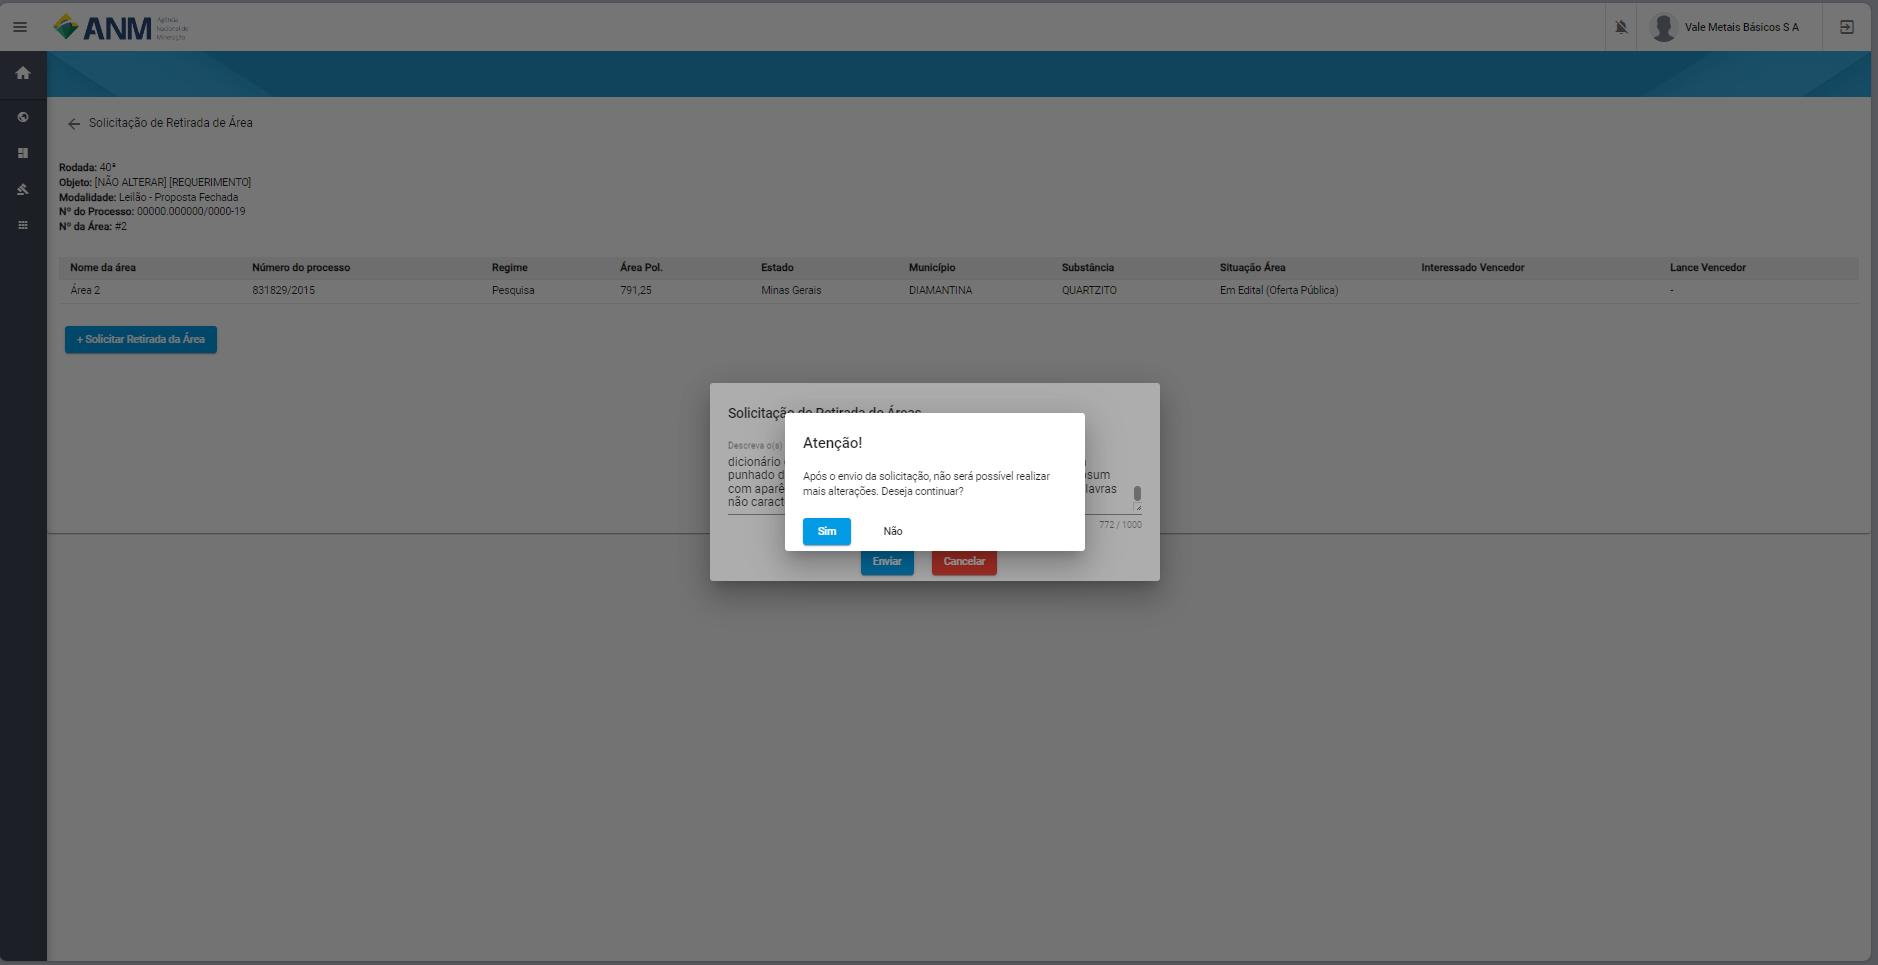
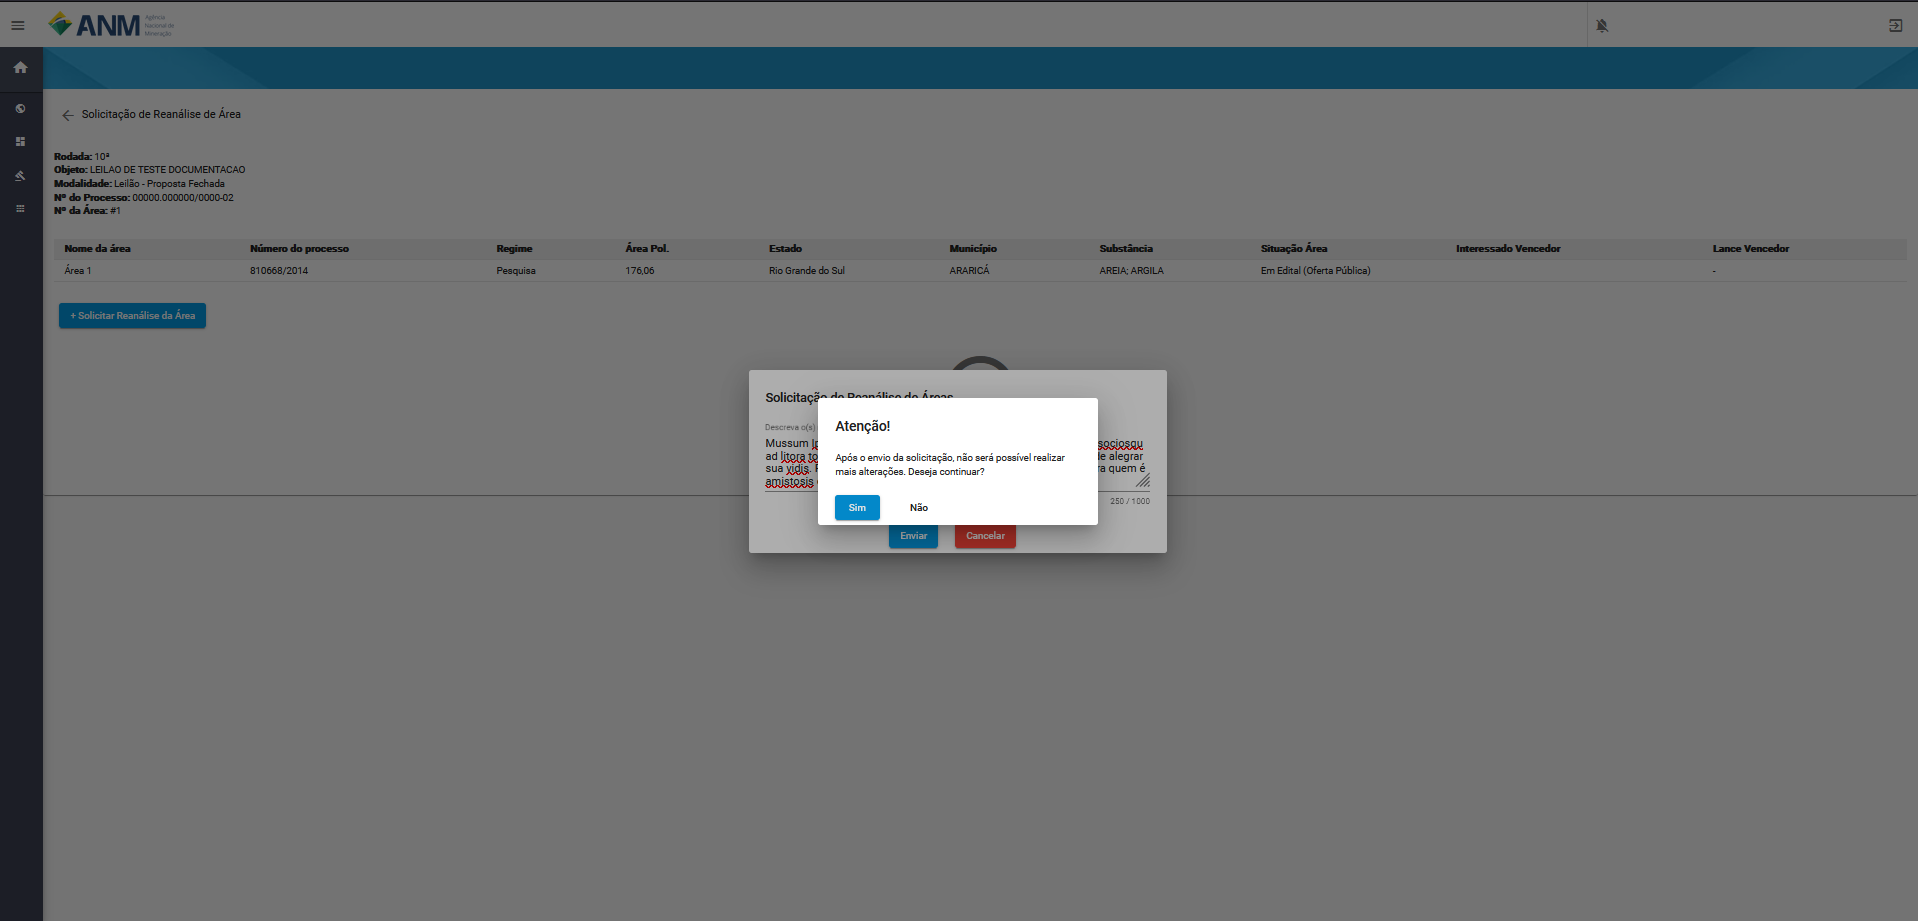
Ajustes solicitados por André Vilaca

diff --git a/conf.py b/conf.py
@@ -39,7 +39,8 @@ release = u'1.0.0'
 # extensions coming with Sphinx (named 'sphinx.ext.*') or your custom
 # ones.
 extensions = [
-    "sphinx_new_tab_link"
+    "sphinx_new_tab_link",
+    "sphinx_fontawesome"
 ]
 
 # Add any paths that contain templates here, relative to this directory.
@@ -81,7 +82,7 @@ html_theme = 'sphinx_rtd_theme'
 # further.  For a list of options available for each theme, see the
 # documentation.
 #
-# html_theme_options = {}
+#html_theme_options = {'cssfiles': ["http://netdna.bootstrapcdn.com/font-awesome/4.7.0/css/font-awesome.min.css"]}
 
 # Custom sidebar templates, must be a dictionary that maps document names
 # to template names.

diff --git a/_perguntasfaq/12.SolicitarReanaliseAreas.rst b/_perguntasfaq/12.SolicitarReanaliseAreas.rst
@@ -1,0 +1,96 @@
+Reanálise de Áreas
+==================
+Os usuários podem solicitar reanálises de aptidão de áreas selecionadas para a rodada mediante uma justificativa técnica e até o prazo definido no Edital.
+
+Importante
+##########
+ - O Interessado deve estar logado no SOPLE para ter acesso a realizar a solicitação de retirada;
+ - A Solicitação pode ser feita em qualquer fase do edital;
+ - Todas as solcitações são análisadas pela CED (Comissão do Edital de Disponibilidade);
+
+Rotas de Acesso a Solicitação
+=============================
+
+Portal Público
+##############
+A partir dos detalhes do edital, nos quais foi adicionado o botão "Solicitar Reanálise de Áreas".
+
+.. image:: ../imagens/12.PortalPublicoSolicitarRetiradaAreas.png
+
+Portal do Minerador
+###################
+Acessado através do menu Rodadas, Solicitação de Reanálise de Áreas, no qual será possível o usuário selecionar o edital referente a(s) área(s) que deseja realizar a solicitação.
+
+.. image:: ../imagens/12.PortalReanaliseAreas.png
+
+
+Filtros e Ações para Solicitar Reanálise de Áreas
+#################################################
+
+Para a identificação das áreas os sistema disponibiliza os campos de pesquisa:
+
+    - **Número da Área:** campo que corresponde o número da área dentro do edital.
+    - **Número do Processo:** campo utilizado para pesquisa de um Processo específico, no formato reduzido (formato XXX.XXX/AAAA) no Estoque de Áreas do SOPLE.
+    - **Estado:** possibilita a busca de Processos a partir da Unidade da Federação nos quais estes foram gerados.
+    - **Situação da Área:** permite a busca de Processos a partir de sua situação de aptidão do SOPLE (para maiores detalhes, ver seção “Informações gerais dos Processos”).
+    - **Município:** possibilita a busca de Processos a partir do município no qual a área está localizada.
+    - **Ação:**
+
+        1) Detalhes da área (:fa:`fa-solid fa-eye`): permite a expansão de card com maiores detalhes sobre um Processo específico. Ao acessar esta opção, é exibido um card específico sobre o Processo, que contempla, além das informações já detalhadas anteriormente, diversas informações extraídas do histórico do Processo no Sistema de Cadastro Mineiro (SCM) e algumas outras.
+        2) Solicitar Reanálise de Áreas (:fa:`fa-solid fa-commenting-o`): inicia o processo de solicitação de reanálise de aptidão de áreas.
+
+.. image:: ../imagens/12.SolicitarReanaliseArea.png
+
+Solicitar Reanálise de Áreas
+############################
+
+Ao clicar e, o usuário é redirecionado para tela Solicitação de Retirada de Área, onde são apresentados os dados:
+    - **Rodada:** campo que corresponde ao número da rodada do edital em que está sendo feita a solicitação.
+    - **Objeto:** campo que corresponde ao objetivo a ser atingido com o edital.
+    - **Modalidade:** campo que corresponde a modalidade do edital.
+    - **Nº do Processo:** campo que corresponde ao número que foi definido par aidentificação do edital.
+    - **Nº da Área:** campo que corresponde a área do edital correspondente a solcitação de retirada.
+
+Na tabela seguinte é apresentado os campos:
+    - **Número da área:** campo que corresponde o número da área dentro do edital.
+    - **Número do Processo:** campo que corresponde ao número do processo minerário relacionado a área do edital.
+    - **Regime:** campo referente ao tipo de regime de disponibilidade no qual a área foi disponibilizada no edital.
+    - **Área Pol:** campo referente ao tamanho da poligonal da área em hectares.
+    - **Estado:** campo referente ao Estado em que se encontra a área.
+    - **Munícípio:** campo referente município que se encontra a área.
+    - **Substância(s):** campo referente a(s) substância(s) relacionada(s) a área no edital vinculada ao cadastro mineiro.
+    - **Situação da Área:** campo referente a situação da área no edital.
+    - **Interessado Vencedor:** campo referente ao nome do interessado vencedor na fase de Oferta Pública ou de Leilão.
+    - **Lance Vencedor:** campo referente ao valor da proposta financeira vencedora na fase de leilão.
+
+.. image:: ../imagens/12.SolicitacaoDeReanaliseDeArea.png
+
+
+Botão + Solicitar Reanálise de Áreas
+************************************
+
+Caso o botão esteja habilitado, ao clicar o sistema apresenta uma janela no qual o minerador pode informar em, no máximo, 1000 caracteres o motivo da reanálise de aptidão da área.
+
+.. image:: ../imagens/12.SolicitaRea.png
+
+Ao terminar o preenchimento e clicar em Enviar, o sistema apresenta uma mensagem informando que não será possível realizar alterações na solicitação.
+
+.. image:: ../imagens/12.MensagemAtencao.png
+
+Excluir Solicitação de Reanálise de Áreas
+*****************************************
+Caso o usuário tenha identificado que exista a necessidade de excluir a solicitação realizada, é possível remover essa solicitação caso ainda não tenha resposta da CED.
+
+.. image:: ../imagens/12.ExcluirRetirada.png
+
+Resultado da Solicitação de Reanálise de Áreas
+**********************************************
+
+As situações da solcitação podem ser:
+
+    - **Enviada:** indica o envio da solicitação, mas ainda sem a análise da CED.
+    - **Excluída:** indica que foi removida pelo solicitante.
+    - **Não Retirada:** indica que identifica que o motivo da solicitação de reanálise de aptidão da área foi analisado pela CED e não foi acatado.
+    - **Retirada:** indica que o motivo da solicitação de reanálise de aptidão da área foi analisado pela CED e foi acatado. Neste caso, resultará na ação de retirada da área do edital acompanhada da respectiva Nota Técnica.
+
+.. image:: ../imagens/12.ResultadoAnalise.png

diff --git a/index.rst b/index.rst
@@ -33,6 +33,12 @@ SOPLE - Sistema de Oferta Pública e Leilão de Áreas
 
 .. toctree::
    :maxdepth: 3
+   :caption: Solicitar Reanálise de Áreas
+
+   _perguntasfaq/12.SolicitarReanaliseAreas.rst
+
+.. toctree::
+   :maxdepth: 3
    :caption: Oferta Pública
    
    _perguntasfaq/4.2PortalPublicodeAcessandoDetalhesEdital
@@ -53,11 +59,6 @@ SOPLE - Sistema de Oferta Pública e Leilão de Áreas
    _perguntasfaq/4.10NovoVisualizarHistoricoManifestacoesDeInteresse
    _perguntasfaq/4.11DeclaracaoDeInteresse
 
-.. toctree::
-   :maxdepth: 3
-   :caption: Solicitar Reanálise de Áreas
-
-   _perguntasfaq/12.SolicitarRetiradaAreas.rst
 
 .. toctree::
    :maxdepth: 3
